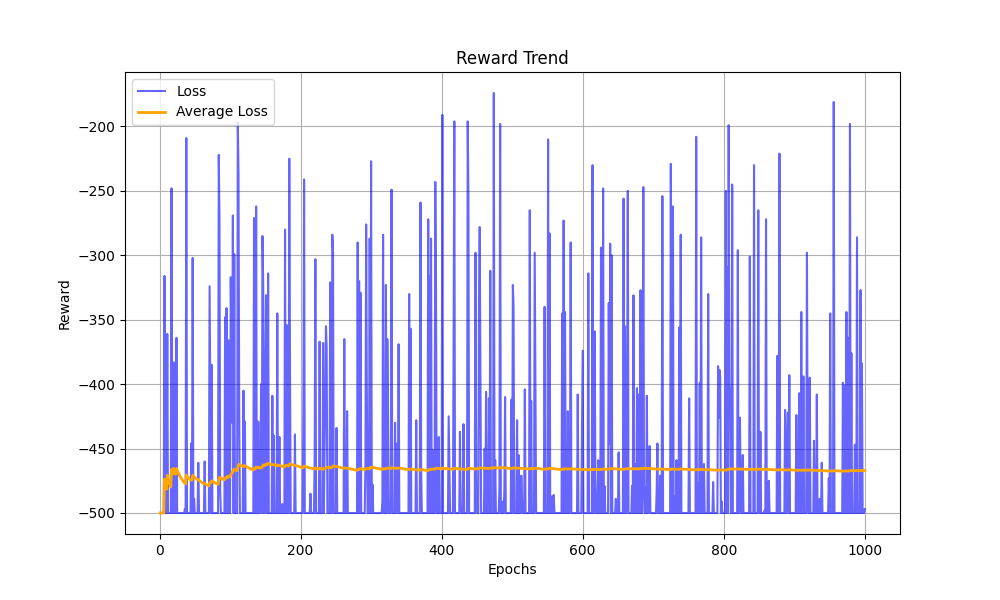
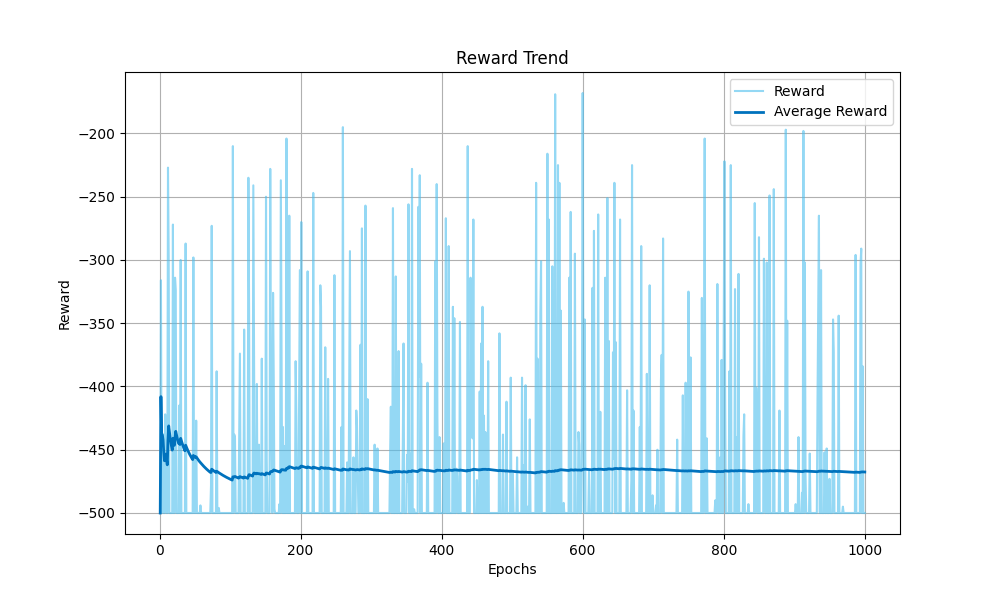
last stuff

Changed region(s): [[0.062, 0.12, 0.899, 0.87], [0.093, 0.72, 0.124, 0.78]]

diff --git a/src/main.py b/src/main.py
@@ -12,7 +12,7 @@ print(f"Using device: {device}")
 
 state_dim = 6  
 action_dim = 3  
-policy_path = "../models/Original_loss_policy_model.pth"
+policy_path = "../models/L1_policy_model.pth"
 
 policy_model = PolicyModel(input_dim=state_dim, action_dim=action_dim).to(device)
 policy_model.load_state_dict(torch.load(policy_path, map_location=device))
@@ -49,8 +49,8 @@ def plot_loss_with_average(loss_values):
     cumulative_average = np.cumsum(loss_values) / np.arange(1, epochs + 1)
     
     plt.figure(figsize=(10, 6))
-    plt.plot(epoch_numbers, loss_values, label='Loss', color='#4DBEEE', alpha=0.6)
-    plt.plot(epoch_numbers, cumulative_average, label='Average Loss', color='#0072BD', linewidth=2)
+    plt.plot(epoch_numbers, loss_values, label='Reward', color='#4DBEEE', alpha=0.6)
+    plt.plot(epoch_numbers, cumulative_average, label='Average Reward', color='#0072BD', linewidth=2)
     
     plt.title('Reward Trend')
     plt.xlabel('Epochs')
@@ -111,7 +111,7 @@ if __name__ == "__main__":
     parser.add_argument('--ep', action='store_true')
     args = parser.parse_args()
 
-    num_episodes = 5
+    num_episodes = 1000
 
     if args.render:
         env = gym.make('Acrobot-v1', render_mode='human')
